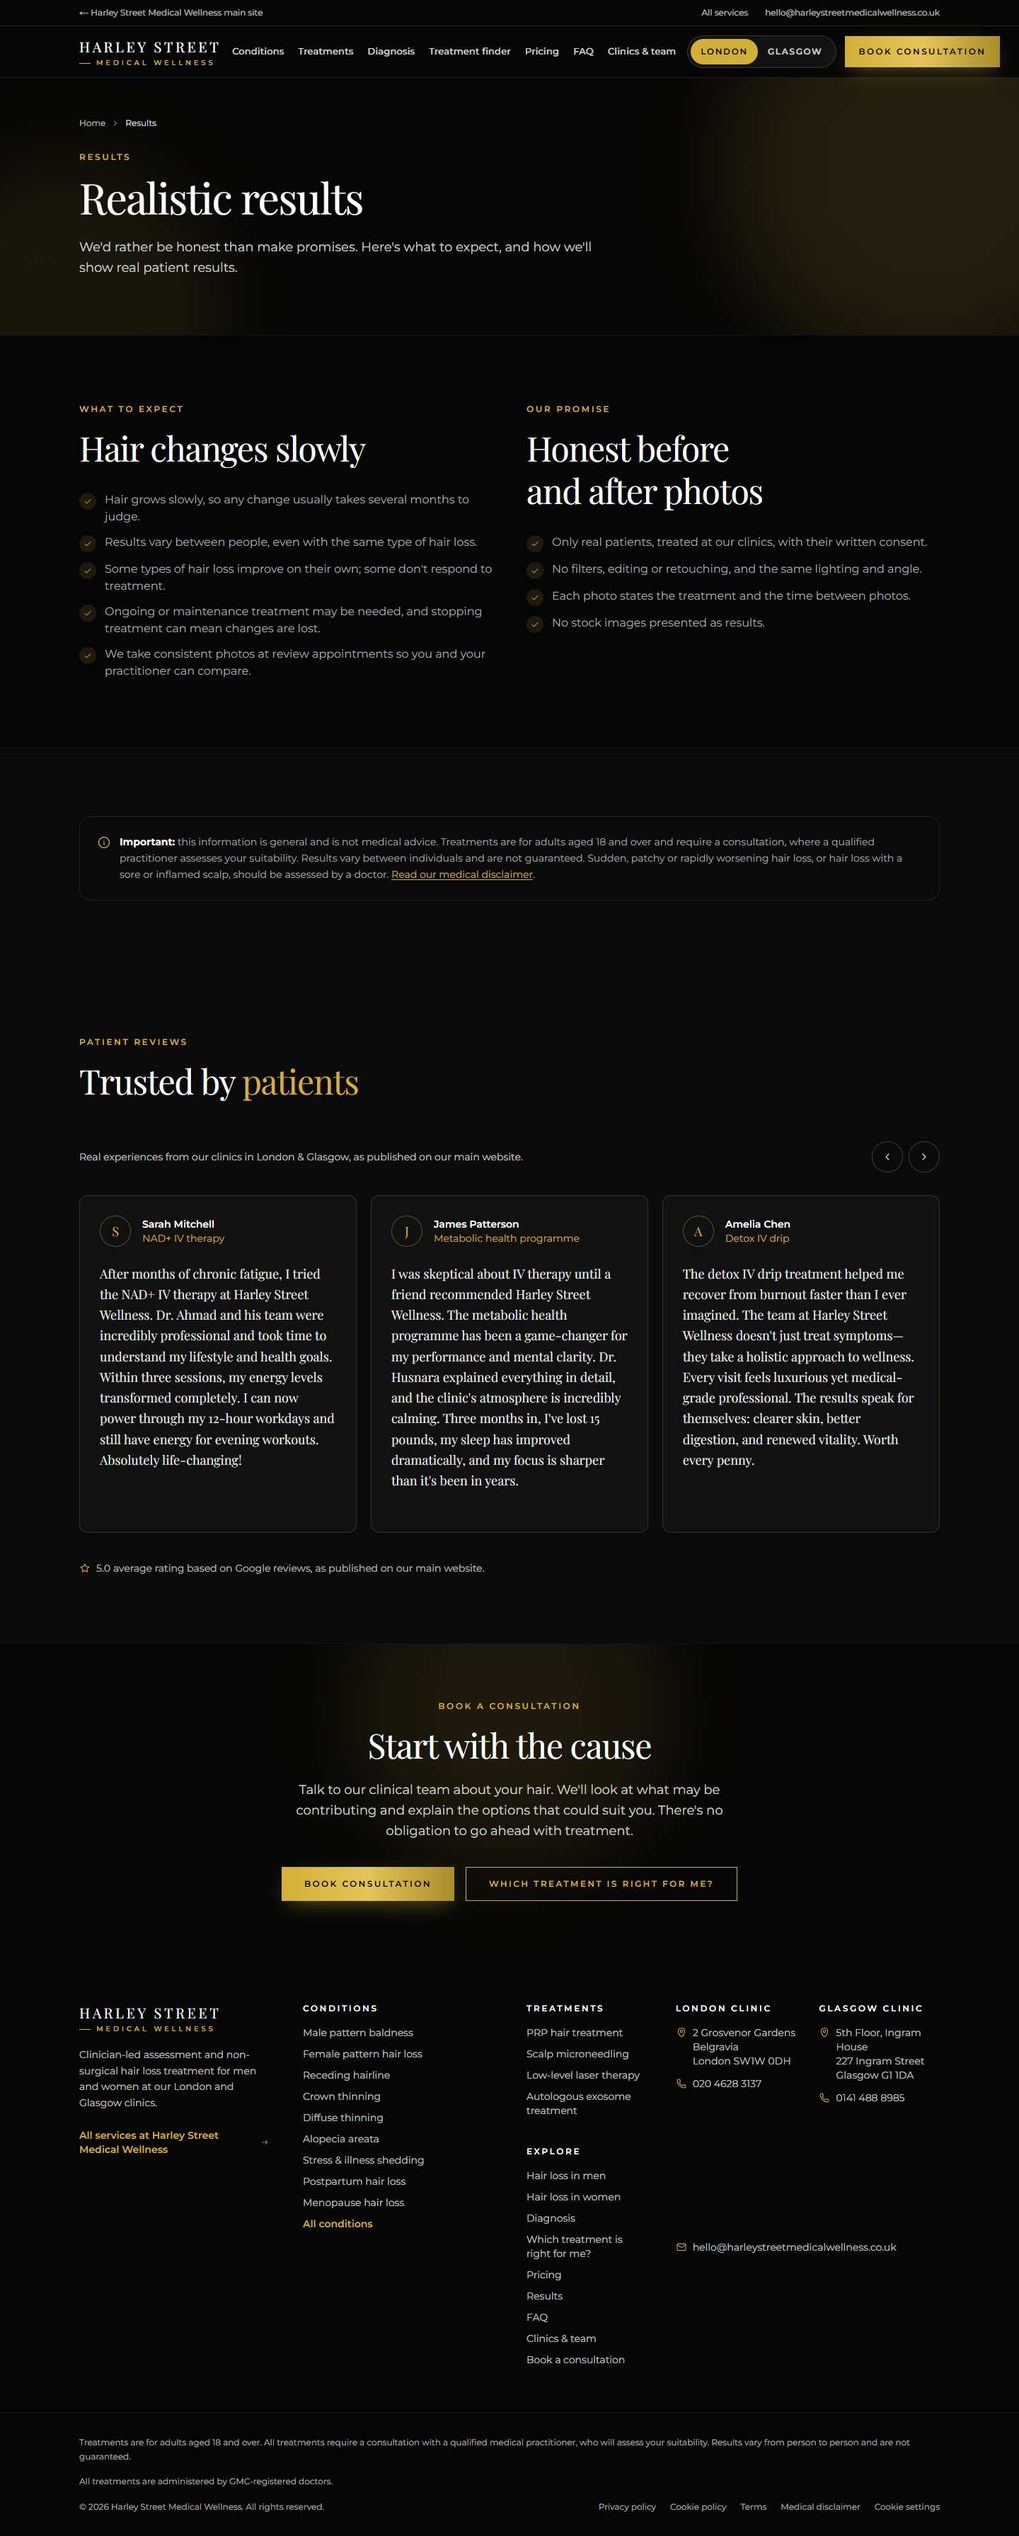
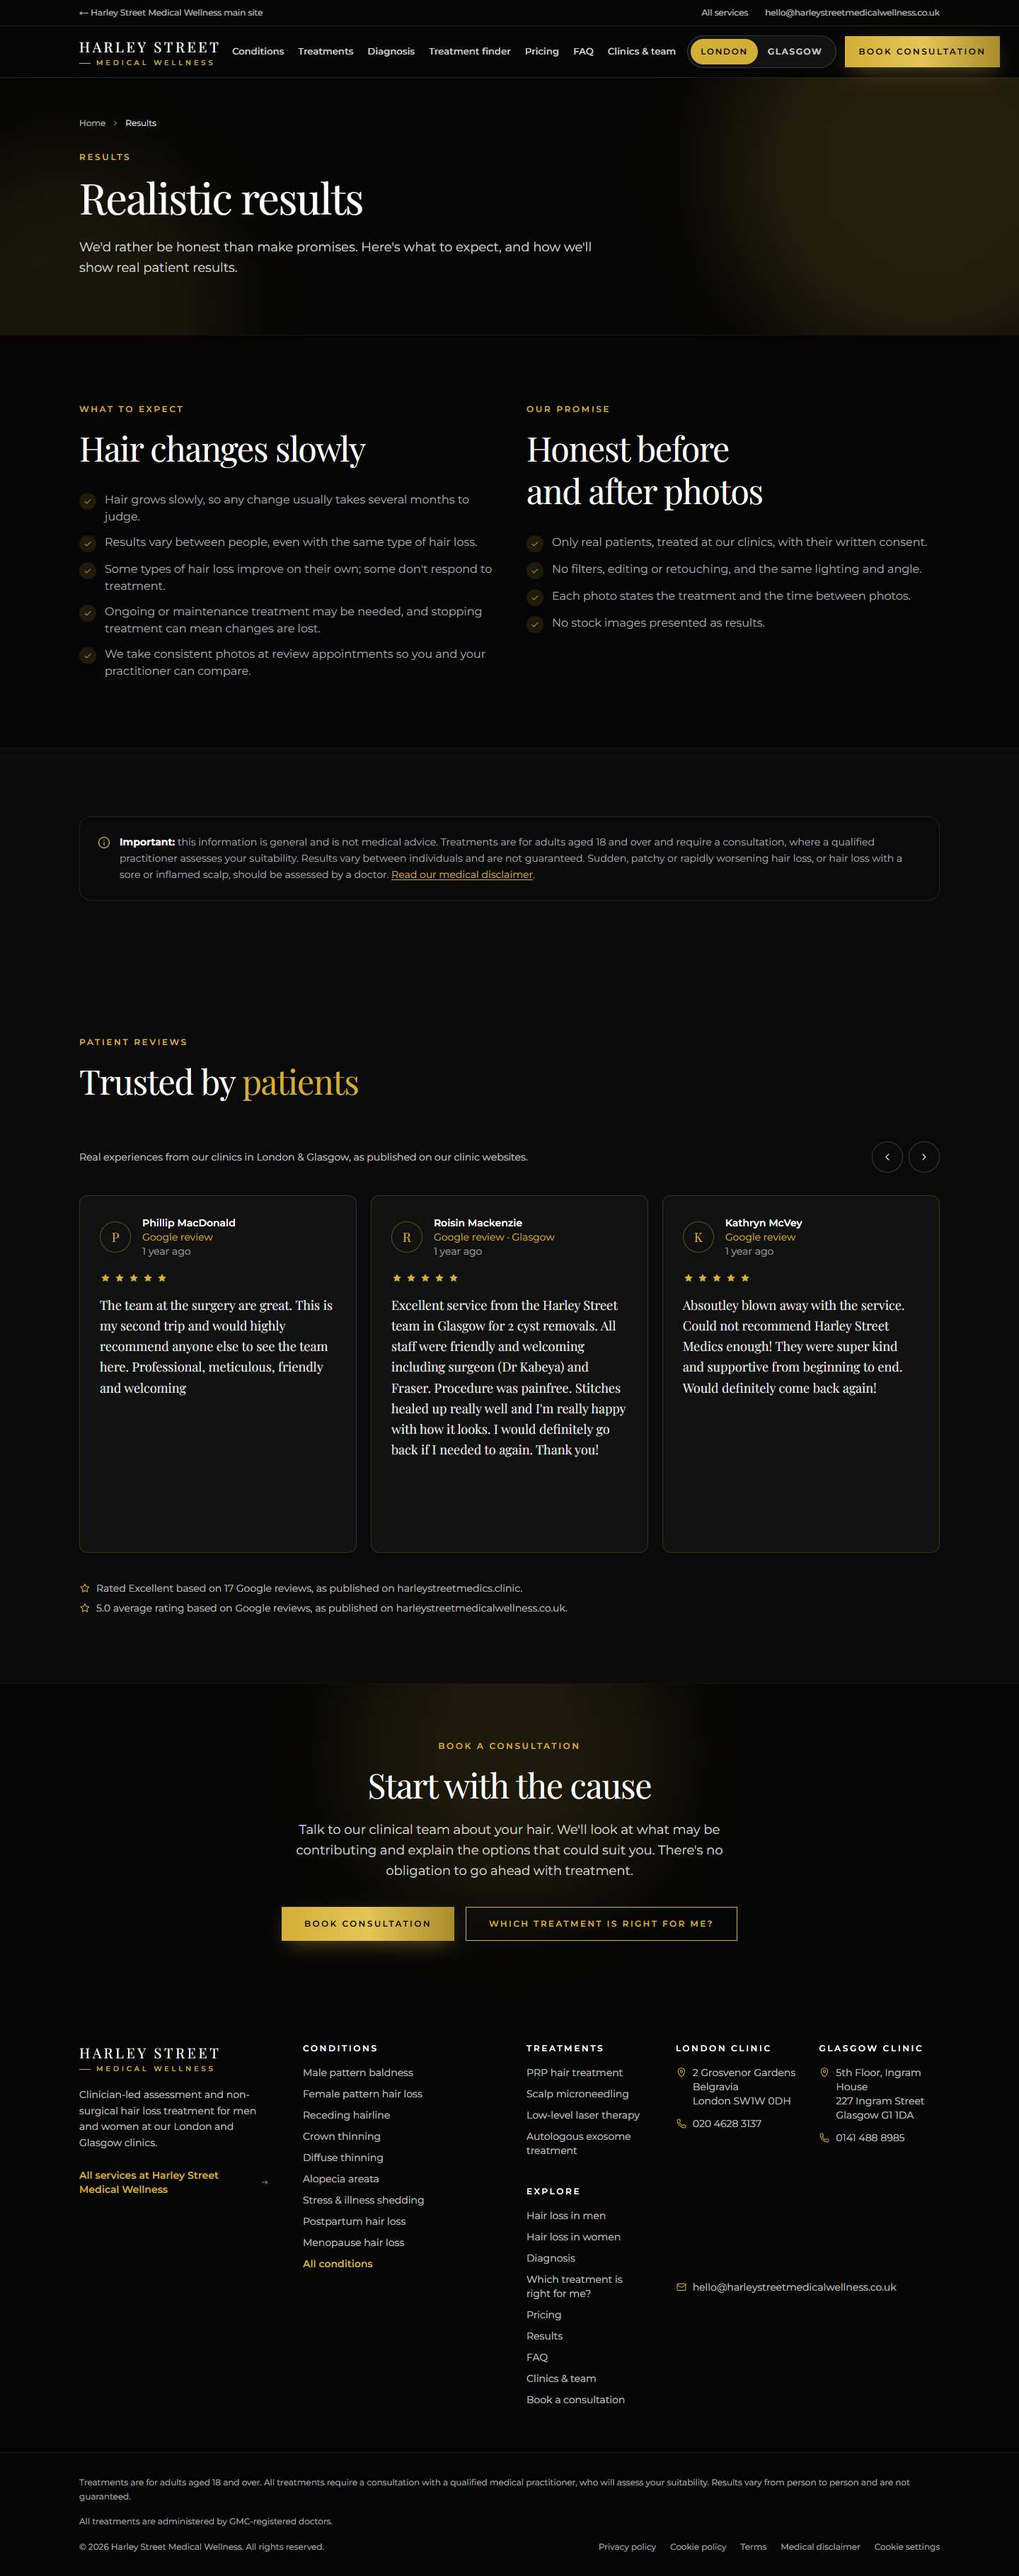
Add the Google reviews from the Medics website to the reviews carousel
Six five-star Google reviews published on harleystreetmedics.clinic, with dates and star ratings, shown ahead of the Wellness patient stories. Both published rating lines appear below the carousel, each naming its source website.

diff --git a/src/lib/reviews.ts b/src/lib/reviews.ts
@@ -1,12 +1,58 @@
-// Patient reviews exactly as published on harleystreetmedicalwellness.co.uk (read 4 Nov 2026).
-// They are clinic reviews, not hair loss reviews: each one names the service it refers to, and the
-// section says where they come from. Nothing here is edited or invented (docs/research.md §12).
+// Patient reviews exactly as published on the clinic's own websites (read 4 and 9 Nov 2026).
+// Nothing here is edited or invented. They are clinic reviews, not hair loss reviews: each card
+// shows what the review is about or where it came from (docs/research.md §12 and §13).
 
-export type Review = { name: string; service: string; quote: string };
+export type Review = { name: string; service: string; quote: string; date?: string };
 
-export const REVIEW_RATING = "5.0 average rating based on Google reviews, as published on our main website.";
+/** Rating lines, each quoted from the website it appears on. */
+export const REVIEW_SOURCES = [
+  "Rated Excellent based on 17 Google reviews, as published on harleystreetmedics.clinic.",
+  "5.0 average rating based on Google reviews, as published on harleystreetmedicalwellness.co.uk.",
+];
 
 export const REVIEWS: Review[] = [
+  // Google reviews, from harleystreetmedics.clinic (Trustindex widget, read 9 Nov 2026).
+  {
+    name: "Phillip MacDonald",
+    service: "Google review",
+    date: "1 year ago",
+    quote:
+      "The team at the surgery are great. This is my second trip and would highly recommend anyone else to see the team here. Professional, meticulous, friendly and welcoming",
+  },
+  {
+    name: "Roisin Mackenzie",
+    service: "Google review · Glasgow",
+    date: "1 year ago",
+    quote:
+      "Excellent service from the Harley Street team in Glasgow for 2 cyst removals. All staff were friendly and welcoming including surgeon (Dr Kabeya) and Fraser. Procedure was painfree. Stitches healed up really well and I'm really happy with how it looks. I would definitely go back if I needed to again. Thank you!",
+  },
+  {
+    name: "Kathryn McVey",
+    service: "Google review",
+    date: "1 year ago",
+    quote:
+      "Absoutley blown away with the service. Could not recommend Harley Street Medics enough! They were super kind and supportive from beginning to end. Would definitely come back again!",
+  },
+  {
+    name: "Steve Rudland",
+    service: "Google review",
+    date: "1 year ago",
+    quote: "Excellent service. Very skilled surgeon. No fuss. Very efficient admin and no price creep.",
+  },
+  {
+    name: "Rab Nawaz Hattar",
+    service: "Google review",
+    date: "1 year ago",
+    quote:
+      "I had a great experience with this clinic. The staff displayed a high level of professionalism and made me feel comfortable throughout my visit.",
+  },
+  {
+    name: "David Mullan",
+    service: "Google review",
+    date: "1 year ago",
+    quote: "Great service, fitted me in on a cancellation. Friendly staff, keeping you informed at all times",
+  },
+  // Patient stories, from harleystreetmedicalwellness.co.uk (read 4 Nov 2026).
   {
     name: "Sarah Mitchell",
     service: "NAD+ IV therapy",

diff --git a/src/components/ReviewsCarousel.tsx b/src/components/ReviewsCarousel.tsx
@@ -17,7 +17,7 @@ export function ReviewsCarousel() {
   return (
     <div>
       <div className="mb-8 flex flex-wrap items-center justify-between gap-4">
-        <p className="text-sm text-white/75">Real experiences from our clinics in London &amp; Glasgow, as published on our main website.</p>
+        <p className="text-sm text-white/75">Real experiences from our clinics in London &amp; Glasgow, as published on our clinic websites.</p>
         <div className="flex gap-2">
           <button
             type="button"
@@ -53,9 +53,17 @@ export function ReviewsCarousel() {
                 <figcaption className="text-sm">
                   <span className="block font-semibold text-white">{r.name}</span>
                   <span className="text-gold">{r.service}</span>
+                  {r.date && <span className="block text-white/55">{r.date}</span>}
                 </figcaption>
               </div>
-              <blockquote className="mt-6 flex-1 font-serif text-lg leading-relaxed text-white/90">
+              <div aria-label="5 out of 5 stars" className="mt-5 flex gap-1">
+                {[0, 1, 2, 3, 4].map((i) => (
+                  <svg key={i} viewBox="0 0 24 24" aria-hidden="true" className="h-4 w-4 fill-gold">
+                    <path d="m12 3 2.7 5.6 6.1.8-4.4 4.3 1 6.1L12 17l-5.4 2.8 1-6.1-4.4-4.3 6.1-.8L12 3Z" />
+                  </svg>
+                ))}
+              </div>
+              <blockquote className="mt-4 flex-1 font-serif text-lg leading-relaxed text-white/90">
                 <p>{r.quote}</p>
               </blockquote>
             </figure>

diff --git a/src/components/sections.tsx b/src/components/sections.tsx
@@ -1,5 +1,5 @@
 import Link from "next/link";
-import { REVIEW_RATING } from "@/lib/reviews";
+import { REVIEW_SOURCES } from "@/lib/reviews";
 import { BRAND, CLINIC_LIST, TEAM } from "@/lib/site";
 import { ClinicTabs } from "./location";
 import { ReviewsCarousel } from "./ReviewsCarousel";
@@ -44,10 +44,14 @@ export function ReviewsSection() {
           </h2>
         </div>
         <ReviewsCarousel />
-        <p className="mt-6 flex items-center gap-2 text-sm text-white/70">
-          <Icon name="star" className="h-4 w-4 text-gold" />
-          {REVIEW_RATING}
-        </p>
+        <ul className="mt-6 space-y-2 text-sm text-white/70">
+          {REVIEW_SOURCES.map((line) => (
+            <li key={line} className="flex items-center gap-2">
+              <Icon name="star" className="h-4 w-4 shrink-0 text-gold" />
+              {line}
+            </li>
+          ))}
+        </ul>
       </div>
     </section>
   );

diff --git a/docs/research.md b/docs/research.md
@@ -164,5 +164,10 @@ It is live and shows **"Online Consultation — Wellness Consultant, 10 min"** w
 - **Reviews:** copied verbatim from the "Patient Stories / Trusted by Our Patients" section of harleystreetmedicalwellness.co.uk, together with its "5.0 Average Rating based on Google Reviews" line. Six reviews: Sarah Mitchell, James Patterson, Amelia Chen, Robert Thompson, Priya Sharma, David Williams. They are stored in `src/lib/reviews.ts`.
   - ⚠ They are **IV therapy, metabolic health and general wellness reviews, not hair loss reviews**. Each card names the service it refers to, and the section says they are "as published on our main website", so nobody reads them as hair loss outcomes. Hair loss reviews would be better when you have them.
 
+## 13. Google reviews from harleystreetmedics.clinic (9 Nov 2026, at your request)
+Taken from the Trustindex Google-review widget on harleystreetmedics.clinic, word for word: six reviews (Phillip MacDonald, Roisin Mackenzie, Kathryn McVey, Steve Rudland, Rab Nawaz Hattar, David Mullan), all five stars and all "1 year ago", under the heading "EXCELLENT · Based on 17 reviews". They now sit at the front of the reviews carousel, each labelled "Google review", with the Wellness patient stories after them. Both rating lines are shown below the carousel, each naming the website it came from.
+- ⚠ These are reviews of the clinic group's general service (one mentions cyst removals in Glasgow), **not hair loss**. Nothing claims otherwise. Only the design and the clinic details were kept off this site from the Medics pages, per your brief; the reviews are the clinic's own published Google reviews.
+- No link to the Google Business Profile is published on that site, so the carousel has no "read all reviews" link. Send me the profile URL and I'll add one.
+
 ## 7. Not available yet (see open-questions.md)
 Everything from Copilot: confirmed treatment list, devices/products, sessions, prices, consultation fee, packages, finance, practitioners and GMC numbers, CQC/HIS numbers, testimonials, before/after photos and consent, booking link for hair, enquiry destination, GA4/GTM/Pixel IDs, brand voice notes, competitors.

diff --git a/docs/decisions.md b/docs/decisions.md
@@ -37,4 +37,5 @@
 | 34 | 2026-11-06 | Build with webpack (`next build --webpack`) and run Tailwind through `postcss.config.mjs` instead of the Turbopack CSS loader. | Turbopack crashed on Hostinger's build container ("node process exited before we could connect to it") while processing globals.css. The webpack build produces the same static export. |
 | 35 | 2026-11-06 | The postbuild script skips (and reports what it found) when there is no `out` folder, instead of failing the build. | Hostinger's Next.js preset built in server mode, so `out` was missing and the whole build failed on the postbuild step. |
 | 36 | 2026-11-09 | The main menu now scrolls to sections of the home page (`/#conditions`, `/#treatments`, …) instead of opening separate pages, and the treatment finder quiz was added to the home page as its own section. The full pages stay, linked from the cards, buttons and footer, and still in the sitemap. | Your request: tapping a menu item should move to that section on the same page. |
+| 37 | 2026-11-09 | Added the six Google reviews published on harleystreetmedics.clinic to the reviews carousel, with five stars, the review date and the "Rated Excellent based on 17 Google reviews" line, each rating line naming its source website. | Your request to show the Google reviews from the Medics site. |
 | 17 | 2026-11-02 | Netlify is the primary host (`netlify.toml`), with Vercel as an alternative. | Brief. Note: the Endolift build is currently on a Hostinger preview, so `docs/deployment.md` also covers Hostinger. |

diff --git a/docs/review-checklist.md b/docs/review-checklist.md
@@ -1,5 +1,7 @@
 # Review checklist
 
+_9 Nov 2026: the Google reviews from harleystreetmedics.clinic are now in the carousel, ahead of the Wellness patient stories. **Please check** you're happy showing Medics' Google reviews on a Wellness-branded site, and that the "Excellent, based on 17 reviews" figure is current._
+
 _9 Nov 2026: the menu now scrolls to sections of the home page instead of opening separate pages, and the treatment finder quiz is on the home page too. `scripts/qa-anchors.cjs` checks all seven menu items land on the right section; it passes, as do the 17 existing browser tests._
 
 _Lighthouse note (4 Nov): with the booking calendar embedded, Lighthouse reports NO_LCP on the home page, so it shows no performance score. **The live Endolift home page behaves exactly the same way**, so this comes from the booking widget, not from this site. Other pages are unaffected: /book/ scores 98 for performance, and accessibility is 100 throughout. The /book/ best-practices score is 79 only because the embedded calendar sets third-party cookies. If you'd rather have a clean score, the home-page calendar could load on click instead; say the word._
